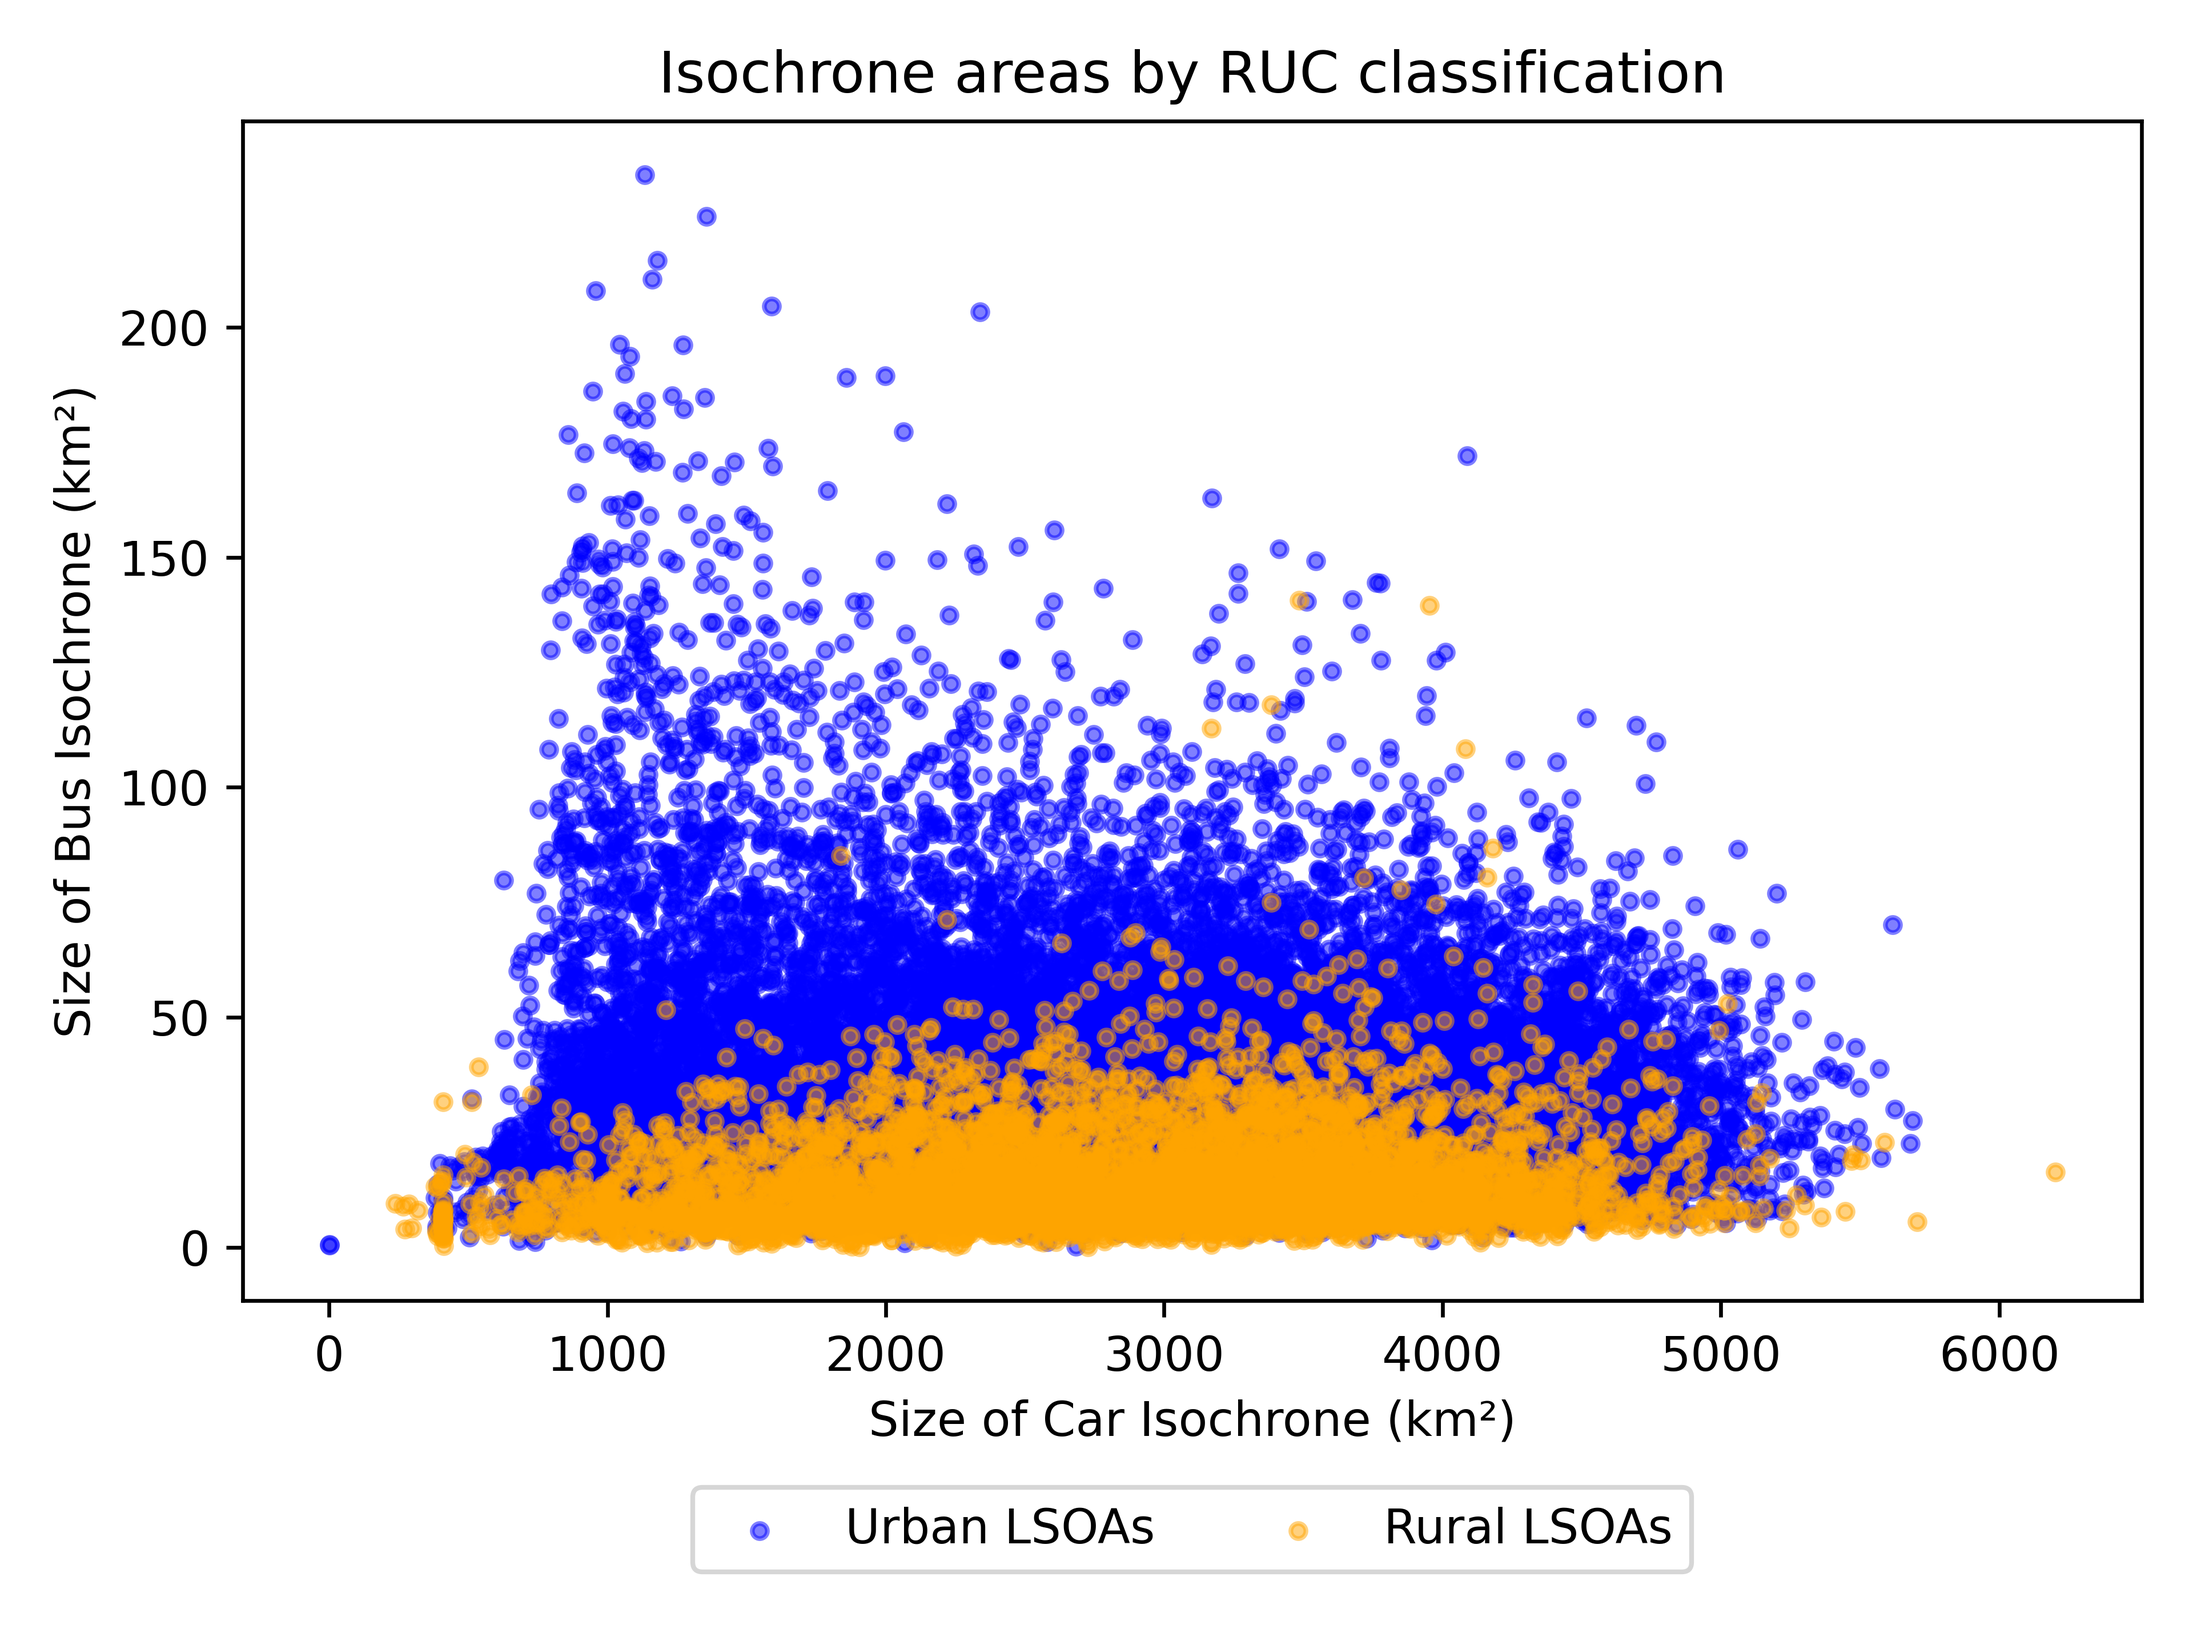
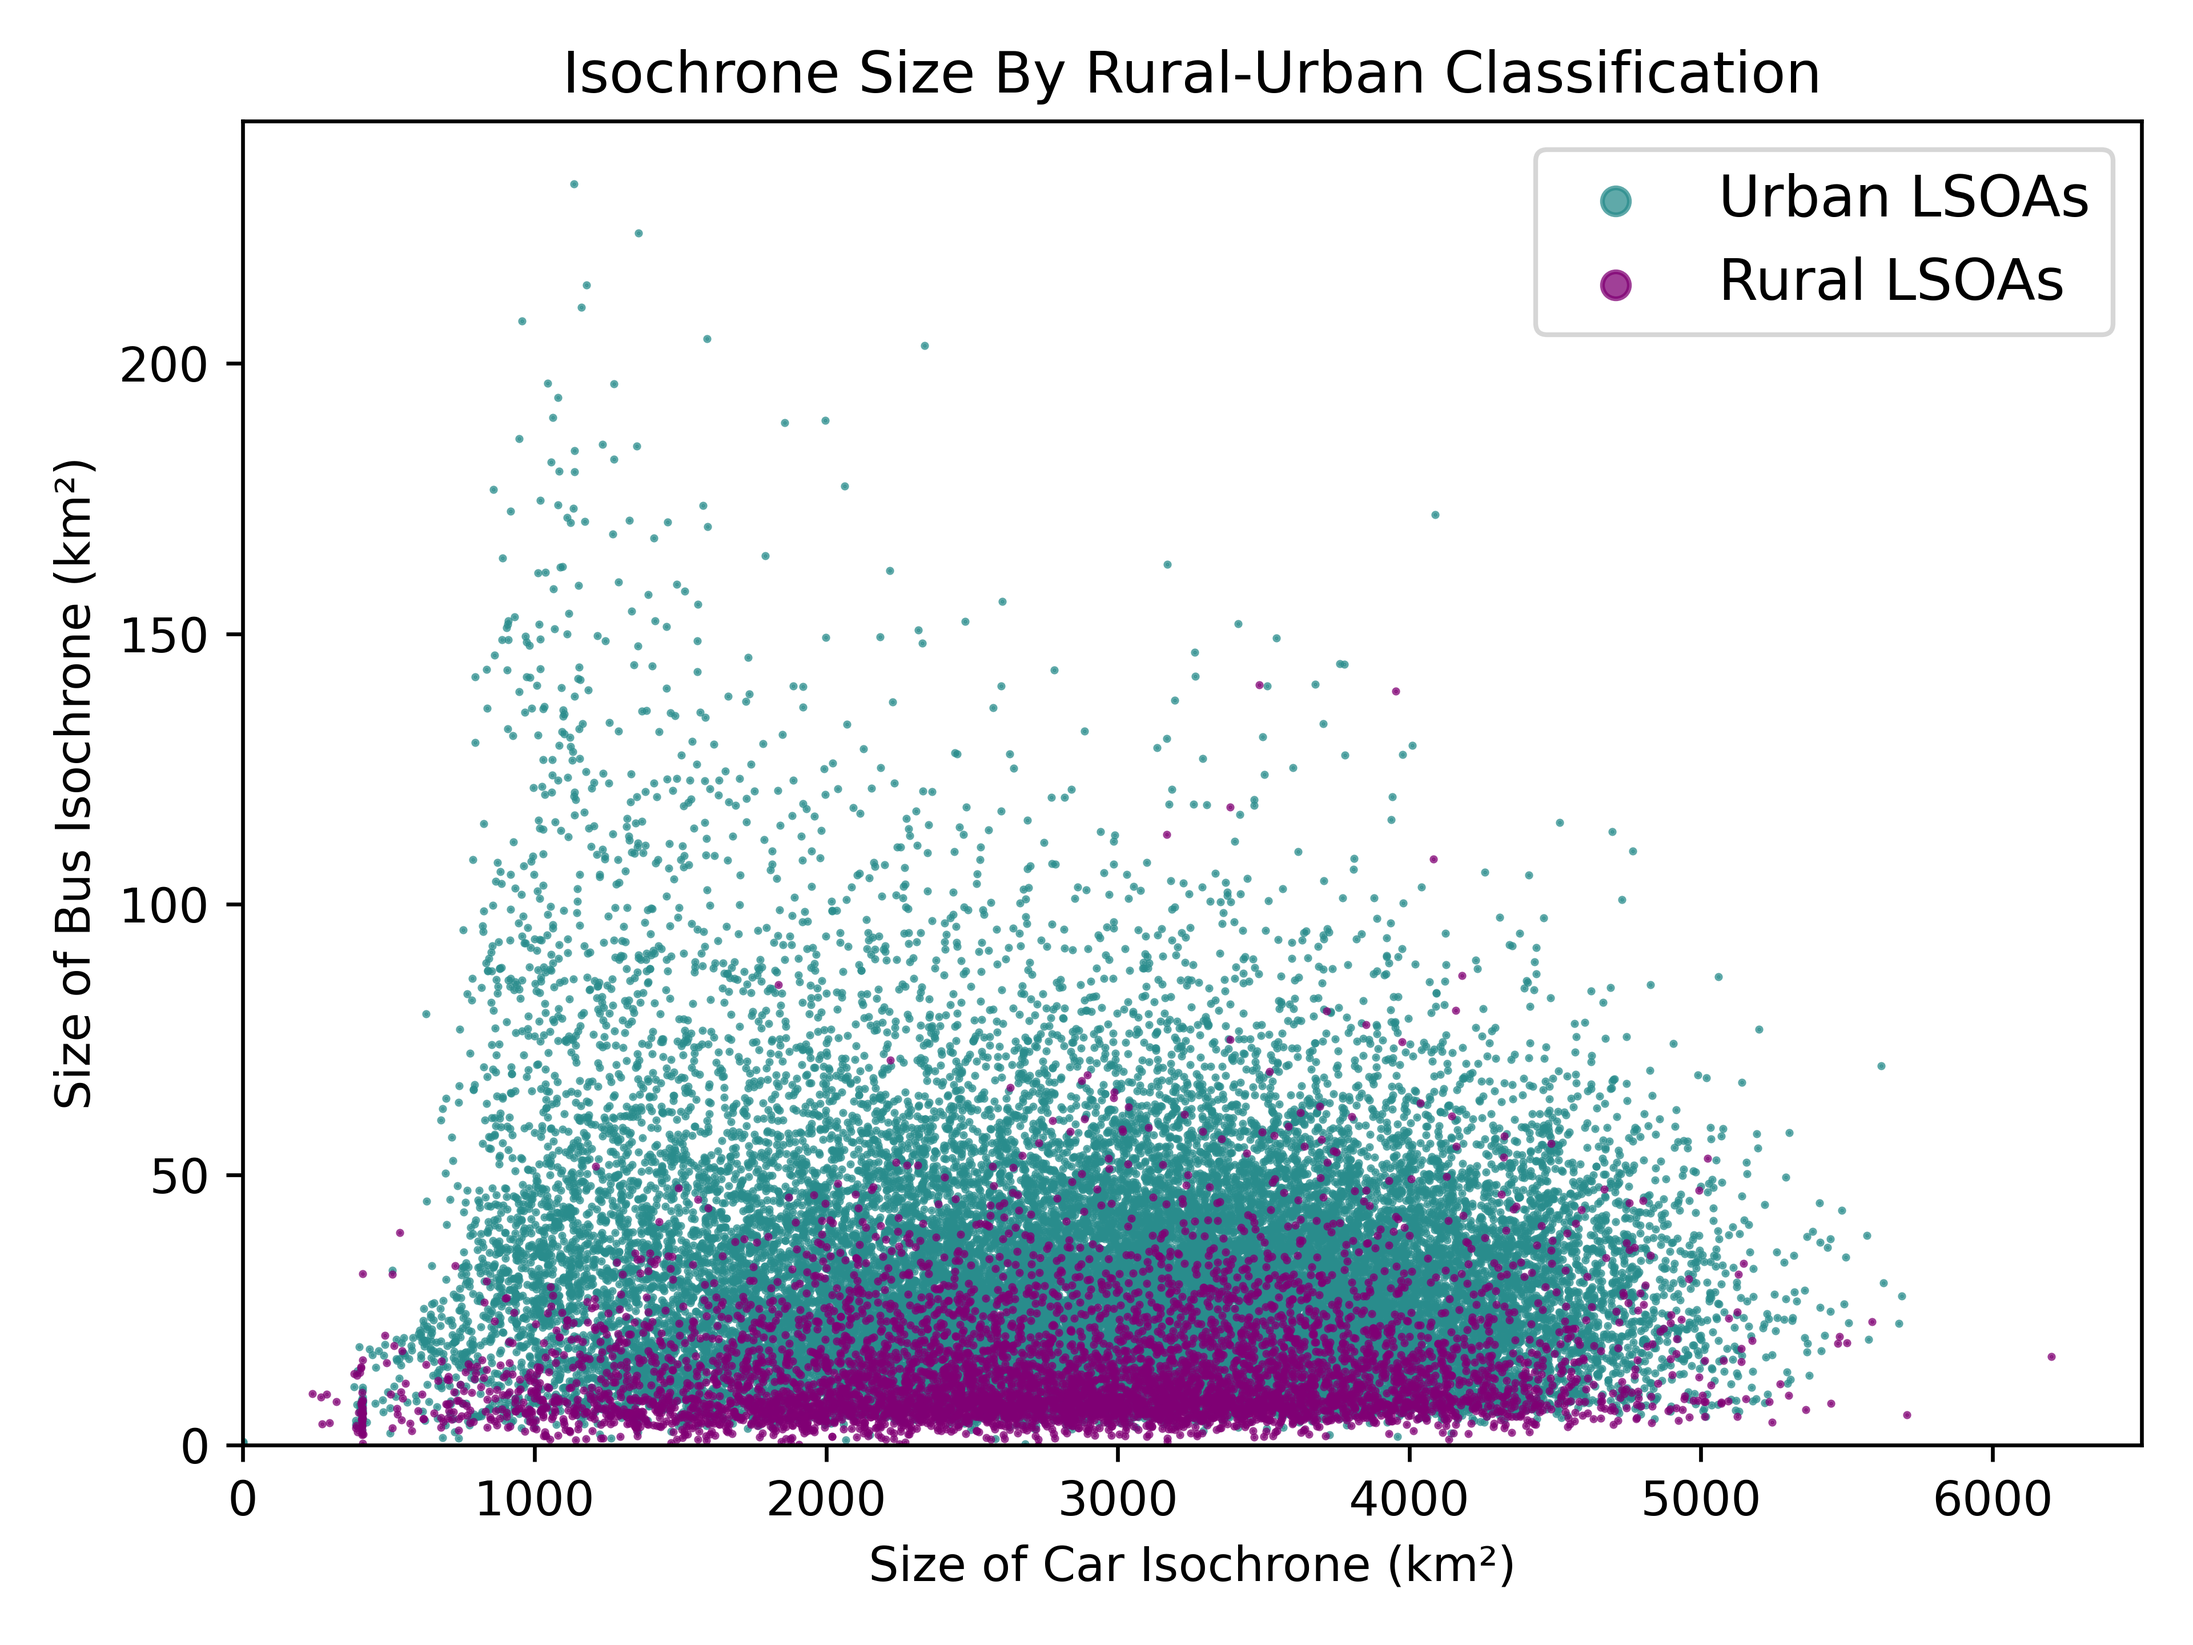
Finalise the plots that are going to be used on the poster

diff --git a/plotting/areas_scatterplot.py b/plotting/areas_scatterplot.py
@@ -15,16 +15,18 @@ urban = areas[areas['ruc'].isin(["UN1", "UF1"])]
 rural = areas[areas['ruc'].isin(["RSN1", "RLN1", "RLF1", "RSF1"])]
 
 # Plot each onto a scattergraph with different colours
-plt.scatter(urban['car_area'], urban['bus_area'], color="blue", alpha=0.5, s=10, label="Urban LSOAs")
-plt.scatter(rural['car_area'], rural['bus_area'], color="orange", alpha=0.5, s=10, label="Rural LSOAs")
+plt.scatter(urban['car_area'], urban['bus_area'], color="#298c8c", alpha=0.75, s=0.5, label="Urban LSOAs")
+plt.scatter(rural['car_area'], rural['bus_area'], color="#800074", alpha=0.75, s=0.5, label="Rural LSOAs")
 
 # Add title and labels
-plt.title('Isochrone areas by RUC classification')
+plt.title('Isochrone Size By Rural-Urban Classification')
 plt.xlabel('Size of Car Isochrone (km²)')
 plt.ylabel('Size of Bus Isochrone (km²)')
+plt.xlim(left=0)
+plt.ylim(bottom=0)
 
 # Add legend
-plt.legend(loc="lower center", bbox_to_anchor=(0.5, -0.25), ncol=3)
+plt.legend(loc="upper right", fontsize=12, markerscale=8)
 plt.tight_layout()
 
 # Save to png

diff --git a/plotting/destinations_boxplot.py b/plotting/destinations_boxplot.py
@@ -16,7 +16,7 @@ rural = destinations[destinations['ruc'].isin(["RSN1", "RLN1", "RLF1", "RSF1"])]
 
 # Create plot
 _, ax = plt.subplots()
-ax.set_title("Destination Accessibility Distribution by Category")
+ax.set_title("Destination Accessibility Distribution By Category")
 
 # Create a stacked vertical plot of each type of ratio
 ax.boxplot([rural['education_ratio'], urban['education_ratio'], rural['healthcare_ratio'], urban['healthcare_ratio'], 

diff --git a/plotting/single_isochrone.py b/plotting/single_isochrone.py
@@ -37,7 +37,8 @@ ax = combined.plot(figsize=(10, 10),
                    legend=True,
                    legend_kwds={
                        "loc": "upper left",
-                       "fontsize": 18
+                       "fontsize": 18,
+                       "markerscale": 1.5
                    })
 
 # Plot centriod
